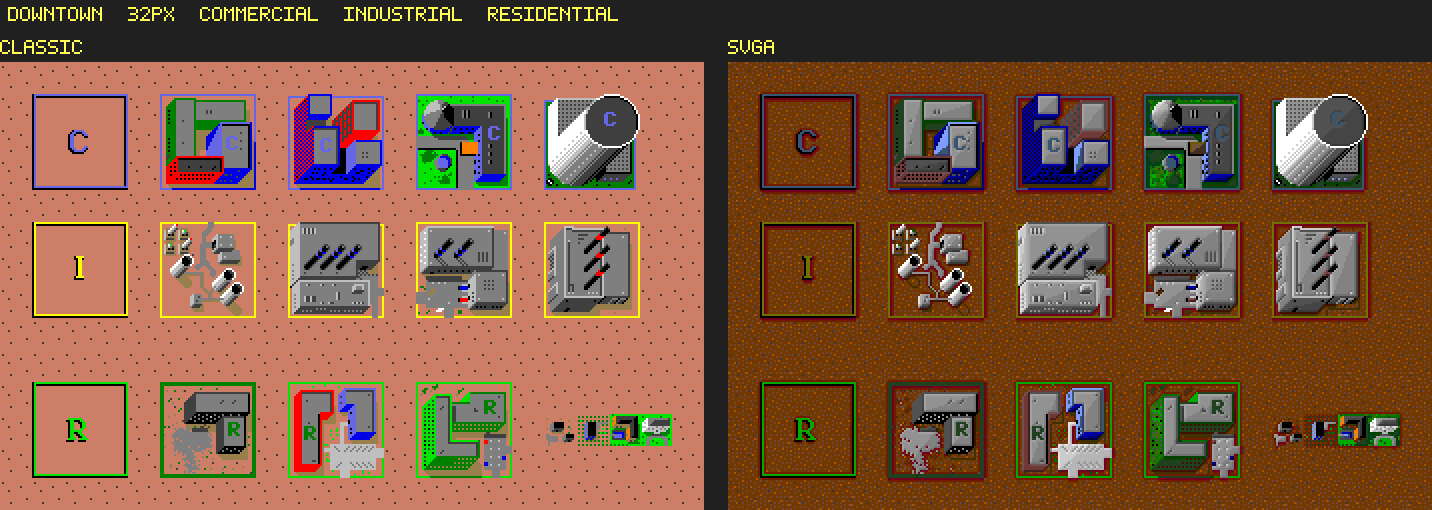
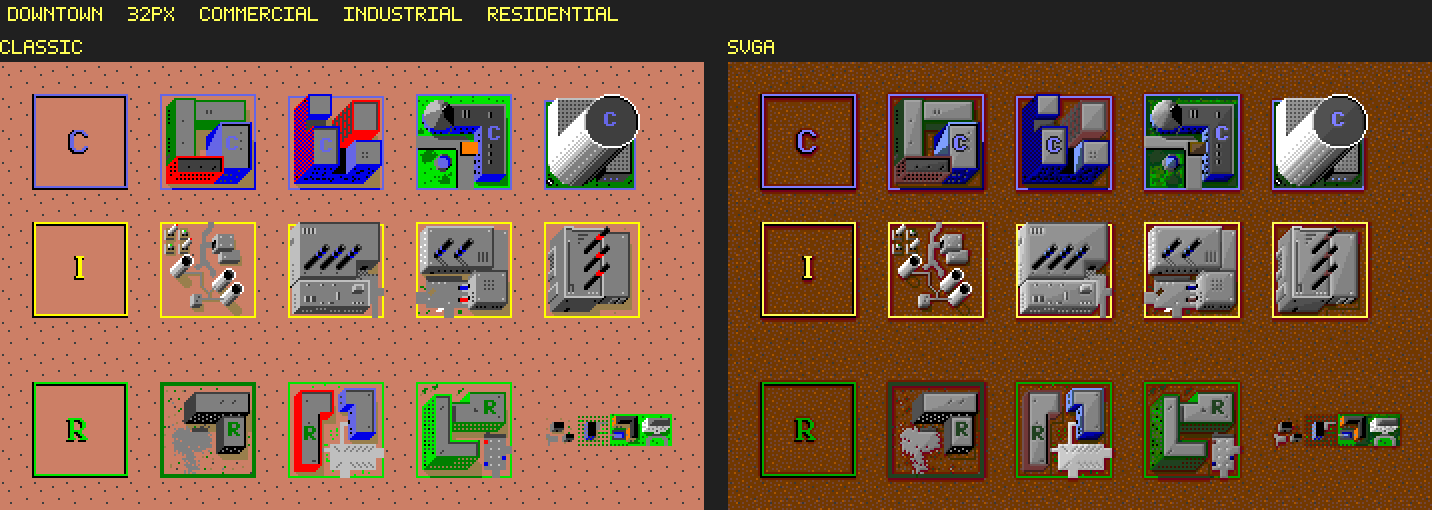
Brighten the commercial and industrial zone letters and lot borders.
The C is light blue (125, 125, 255) and the I is yellow (255, 255, 85), with matching solid frames. Letters on light roofs get a one-pixel dark edge. Residential tiles stay as approved.

diff --git a/art/svga/make_atlas.py b/art/svga/make_atlas.py
@@ -183,10 +183,17 @@ AMBER_RAMP = (
 )
 GRASS_LINE = (0, 170, 0)
 HEDGE_LINE = (32, 65, 32)
-# Commercial lots are light blue, industrial lots are yellow. One solid step
-# of each, not a dither.
-COM_LINE = (56, 85, 113)
-IND_LINE = (113, 113, 0)
+# Zone letters and lot borders have to read at a glance. The C keeps the
+# classic light-blue hue (equal red and green, high blue) at the lighter
+# standard step, (125, 125, 255). (85, 85, 255) is the same hue but darker,
+# and it sinks into a slate roof. The I is bright yellow one notch off neon
+# (255, 255, 0): (255, 255, 85). A letter on a light roof gets a 1px dark edge.
+COM_LINE = (125, 125, 255)
+IND_LINE = (255, 255, 85)
+LETTER_SHADE = (32, 32, 32)
+# Previous pass, kept so the letter sample can show the darker marks.
+_COM_LINE_BEFORE = (56, 85, 113)
+_IND_LINE_BEFORE = (113, 113, 0)
 
 GRASS_RAMP = (
     (0, 170, 0),
@@ -265,6 +272,40 @@ _ORTHO = ((0, -1), (0, 1), (-1, 0), (1, 0))
 _NW = ((0, -1), (-1, 0))
 _SE = ((0, 1), (1, 0))
 _PAVEMENT = frozenset({SRC_GREY})
+# The building C, the empty-lot C, and the empty-lot I. Every batch-2 letter matches one of these.
+_C_MARK = frozenset(
+    (x, y)
+    for y, row in enumerate((".####.", "##..##", "##....", "##....", "##....", "##..##", ".####."))
+    for x, ch in enumerate(row)
+    if ch == "#"
+)
+_C_LOT = frozenset(
+    (x, y)
+    for y, row in enumerate(
+        (
+            "..#####..",
+            ".##...##.",
+            "##.....##",
+            "##.......",
+            "##.......",
+            "##.......",
+            "##.......",
+            "##.......",
+            "##.....##",
+            ".##...##.",
+            "..#####..",
+        )
+    )
+    for x, ch in enumerate(row)
+    if ch == "#"
+)
+_I_MARK = frozenset(
+    (x, y)
+    for y, row in enumerate(("####", ".##.", ".##.", ".##.", ".##.", ".##.", ".##.", ".##.", ".##.", ".##.", "####"))
+    for x, ch in enumerate(row)
+    if ch == "#"
+)
+_LIGHT_BEHIND = frozenset({SRC_GREY, SRC_LGREY, WHITE})
 RECEIVERS = frozenset({SRC_TAN, SRC_DTAN, SRC_GREEN, SRC_DGREEN})
 TREE_CAST = frozenset({SRC_GREEN, SRC_DGREEN})
 BUILD_CAST = frozenset({SRC_GREY, SRC_LGREY, SRC_LBLUE, SRC_BLUE, SRC_DGREY, SRC_DGREEN, SRC_YELLOW})
@@ -788,12 +829,78 @@ def _components(src, w: int, h: int, colour: tuple[int, int, int]) -> list[list[
     return found
 
 
-def _solid_marks(src, w: int, h: int, kinds: list[list[str]]) -> dict[tuple[int, int], tuple[int, int, int]]:
+def _rel_mask(cells: list[tuple[int, int]]) -> frozenset[tuple[int, int]]:
+    xs = [cell[0] for cell in cells]
+    ys = [cell[1] for cell in cells]
+    x0, y0 = min(xs), min(ys)
+    return frozenset((x - x0, y - y0) for x, y in cells)
+
+
+def _on_commerce(kinds: list[list[str]], cells: list[tuple[int, int]]) -> bool:
+    return all(kinds[y // TILE][x // TILE] == "commerce" for x, y in cells)
+
+
+def _zone_letters(src, w: int, h: int, kinds: list[list[str]], colour: tuple[int, int, int], masks: tuple) -> list[list[tuple[int, int]]]:
+    found = []
+    for cells in _components(src, w, h, colour):
+        if not _on_commerce(kinds, cells):
+            continue
+        if _rel_mask(cells) in masks:
+            found.append(cells)
+    return found
+
+
+def _zone_border(src, w: int, h: int, kinds: list[list[str]], colour: tuple[int, int, int]) -> list[tuple[int, int]]:
+    """The lot frame of each 3x3 commerce block, even when it touches the windows."""
+    span = TILE * 3
+    pixels: list[tuple[int, int]] = []
+    tiles_y, tiles_x = h // TILE, w // TILE
+    for by in range(tiles_y - 2):
+        for bx in range(tiles_x - 2):
+            if any(kinds[by + dy][bx + dx] != "commerce" for dy in range(3) for dx in range(3)):
+                continue
+            ox, oy = bx * TILE, by * TILE
+            for y in range(oy, oy + span):
+                for x in range(ox, ox + span):
+                    if src[x, y] != colour:
+                        continue
+                    lx, ly = x - ox, y - oy
+                    if 1 < lx < span - 2 and 1 < ly < span - 2:
+                        continue
+                    neighbours = 0
+                    for dx, dy in _ORTHO:
+                        nx, ny = x + dx, y + dy
+                        if _in(nx, ny, w, h) and src[nx, ny] == colour:
+                            neighbours += 1
+                    if neighbours <= 2:
+                        pixels.append((x, y))
+    return pixels
+
+
+def _letter_shade(src, w: int, h: int, cells: list[tuple[int, int]], taken: set[tuple[int, int]]) -> dict[tuple[int, int], tuple[int, int, int]]:
+    """A 1px dark edge where a letter sits on a light grey face."""
+    shade: dict[tuple[int, int], tuple[int, int, int]] = {}
+    group = set(cells)
+    for x, y in cells:
+        for dx, dy in _ORTHO:
+            nx, ny = x + dx, y + dy
+            if not _in(nx, ny, w, h) or (nx, ny) in group or (nx, ny) in taken:
+                continue
+            if src[nx, ny] not in _LIGHT_BEHIND:
+                continue
+            shade[(nx, ny)] = LETTER_SHADE
+    return shade
+
+
+def _solid_marks(
+    src, w: int, h: int, kinds: list[list[str]], bright_zones: bool = True
+) -> dict[tuple[int, int], tuple[int, int, int]]:
     """Lot borders and zone letters are one flat colour. Lawns stay dithered.
 
-    A border is a stroke: almost every pixel has at most two orthogonal
-    neighbours. A zone letter is a compact mark that sits on a building tile.
-    Tree canopies fail both tests.
+    A residential border is a stroke: almost every pixel has at most two
+    orthogonal neighbours. A zone letter is a compact mark on a building tile.
+    Tree canopies fail both tests. Commercial and industrial letters are the
+    C and I shapes, and their lot borders are the frame of each 3x3.
     """
     marks: dict[tuple[int, int], tuple[int, int, int]] = {}
     for colour, solid in ((SRC_GREEN, GRASS_LINE), (SRC_DGREEN, HEDGE_LINE)):
@@ -814,25 +921,32 @@ def _solid_marks(src, w: int, h: int, kinds: list[list[str]]) -> dict[tuple[int,
             if stroke or glyph:
                 for cell in cells:
                     marks[cell] = solid
-    # Commercial and industrial zone colours. Residential light-blue mullions
-    # are not commerce tiles, so this loop does not repaint them.
-    for colour, solid in ((SRC_LBLUE, COM_LINE), (SRC_YELLOW, IND_LINE)):
+    if bright_zones:
+        pairs = ((SRC_LBLUE, COM_LINE, (_C_MARK, _C_LOT)), (SRC_YELLOW, IND_LINE, (_I_MARK,)))
+    else:
+        pairs = ((SRC_LBLUE, _COM_LINE_BEFORE, ()), (SRC_YELLOW, _IND_LINE_BEFORE, ()))
+    for colour, solid, masks in pairs:
+        if masks:
+            letters = _zone_letters(src, w, h, kinds, colour, masks)
+            taken: set[tuple[int, int]] = {cell for group in letters for cell in group}
+            for cells in letters:
+                for cell in cells:
+                    marks[cell] = solid
+                for cell, shade in _letter_shade(src, w, h, cells, taken).items():
+                    marks[cell] = shade
+            for cell in _zone_border(src, w, h, kinds, colour):
+                if cell not in taken:
+                    marks[cell] = solid
+            continue
         for cells in _components(src, w, h, colour):
-            if len(cells) < 12:
-                continue
-            if not all(kinds[y // TILE][x // TILE] == "commerce" for x, y in cells):
+            if len(cells) < 12 or not _on_commerce(kinds, cells):
                 continue
             group = set(cells)
-            thin = 0
-            for x, y in cells:
-                neighbours = sum((x + dx, y + dy) in group for dx, dy in _ORTHO)
-                if neighbours <= 2:
-                    thin += 1
-            stroke = thin / len(cells) >= 0.9
+            thin = sum(sum((x + dx, y + dy) in group for dx, dy in _ORTHO) <= 2 for x, y in cells) / len(cells)
             xs = [cell[0] for cell in cells]
             ys = [cell[1] for cell in cells]
             glyph = len(cells) <= 80 and max(xs) - min(xs) <= 13 and max(ys) - min(ys) <= 13
-            if stroke or glyph:
+            if thin >= 0.9 or glyph:
                 for cell in cells:
                     marks[cell] = solid
     return marks
@@ -920,7 +1034,12 @@ def _dither_recolour(src, w: int, h: int) -> dict[tuple[int, int], tuple[int, in
     return out
 
 
-def paint(original: Image.Image, kinds: list[list[str]], scheme: DirtScheme = SCHEME_B) -> Image.Image:
+def paint(
+    original: Image.Image,
+    kinds: list[list[str]],
+    scheme: DirtScheme = SCHEME_B,
+    bright_zones: bool = True,
+) -> Image.Image:
     """Recolour `original`. `kinds` is one label per 16px cell, row-major."""
     w, h = original.size
     if w % TILE or h % TILE:
@@ -932,7 +1051,7 @@ def paint(original: Image.Image, kinds: list[list[str]], scheme: DirtScheme = SC
     boxes = _component_boxes(src, w, h, surface_colours)
     mask = _caster_mask(kinds, src, w, h)
     counts = _caster_counts(src, w, h, mask)
-    solid = _solid_marks(src, w, h, kinds)
+    solid = _solid_marks(src, w, h, kinds, bright_zones)
     dither = _dither_recolour(src, w, h)
     for y in range(h):
         kind_row = kinds[y // TILE]
@@ -1436,7 +1555,6 @@ def main() -> int:
 
     hot = {
         (255, 255, 0),
-        (255, 255, 85),
         (255, 255, 125),
         (255, 127, 0),
         (255, 125, 0),
@@ -1445,7 +1563,6 @@ def main() -> int:
         (255, 0, 0),
         (170, 0, 0),
         (0, 0, 255),
-        (125, 125, 255),
         (85, 85, 255),
         (85, 255, 85),
     }
@@ -1477,6 +1594,50 @@ def main() -> int:
 
     _border_solid(423, SRC_LBLUE, COM_LINE, painted_com)
     _border_solid(612, SRC_YELLOW, IND_LINE, painted_ind)
+
+    def _letter_pixels(base: int, colour: tuple[int, int, int], mask: frozenset[tuple[int, int]]) -> list[tuple[int, int]]:
+        nonlocal failed
+        classic = assemble(atlas, base, 3, 3)
+        src = classic.load()
+        found = [cells for cells in _components(src, 48, 48, colour) if _rel_mask(cells) == mask]
+        if len(found) != 1:
+            lines.append(f"FAIL block {base} has {len(found)} copies of the zone letter")
+            failed = True
+            return []
+        return found[0]
+
+    for base in com_bases:
+        mask = _C_LOT if base == 423 else _C_MARK
+        svga = next(image for origin, _classic, image in painted_com if origin == base)
+        pixels = _letter_pixels(base, SRC_LBLUE, mask)
+        spx = svga.load()
+        wrong = sum(spx[x, y] != COM_LINE for x, y in pixels)
+        if wrong:
+            lines.append(f"FAIL the C on {base} is not the light blue ({wrong})")
+            failed = True
+    i_pixels = _letter_pixels(612, SRC_YELLOW, _I_MARK)
+    i_px = next(image for origin, _classic, image in painted_ind if origin == 612).load()
+    i_wrong = sum(i_px[x, y] != IND_LINE for x, y in i_pixels)
+    if i_wrong:
+        lines.append(f"FAIL the I on 612 is not the bright yellow ({i_wrong})")
+        failed = True
+    for base in ind_bases:
+        if base == 612:
+            continue
+        classic = next(image for origin, image, _svga in painted_ind if origin == base)
+        src = classic.load()
+        extra = [cells for cells in _components(src, 48, 48, SRC_YELLOW) if _rel_mask(cells) == _I_MARK]
+        if extra:
+            lines.append(f"FAIL block {base} has an I the empty-lot check did not expect")
+            failed = True
+    roof = next(image for origin, _classic, image in painted_com if origin == 558)
+    slate = next(image for origin, _classic, image in painted_com if origin == 504)
+    if LETTER_SHADE not in set(_histogram(roof)):
+        lines.append("FAIL the C on light roof 558 has no dark edge")
+        failed = True
+    if LETTER_SHADE in set(_histogram(slate)):
+        lines.append("FAIL the C on dark roof 504 grew a shadow it does not need")
+        failed = True
 
     open_water = paint(crop_tile(atlas, 2), [["water"]])
     shore = paint(crop_tile(atlas, 13), [["water"]])
@@ -1732,6 +1893,36 @@ def main() -> int:
         grid = _grid(cells, 4)
         return _vstack([_banner(title, grid.width), grid], 14)
 
+    def _captioned(image: Image.Image, caption: str, scale: int) -> Image.Image:
+        scaled = _scaled(image, scale)
+        label = _text(caption, 2)
+        width = max(scaled.width, label.width)
+        cell = _blank(width, label.height + 4 + scaled.height)
+        cell.paste(label, ((width - label.width) // 2, 0))
+        cell.paste(scaled, ((width - scaled.width) // 2, label.height + 4))
+        return cell
+
+    letter_rows = []
+    for base in (423, 612, 504, 603, 621):
+        classic = assemble(atlas, base, 3, 3)
+        kinds = [["commerce"] * 3 for _ in range(3)]
+        before = paint(classic, kinds, bright_zones=False)
+        after = paint(classic, kinds, bright_zones=True)
+        letter_rows.append(
+            _hstack(
+                [
+                    _captioned(classic, f"{base} CLASSIC", 3),
+                    _captioned(before, "BEFORE", 3),
+                    _captioned(after, "AFTER", 3),
+                ],
+                18,
+            )
+        )
+    letters = _vstack(
+        [_banner("ZONE LETTERS  CLASSIC  BEFORE  AFTER", letter_rows[0].width), *letter_rows],
+        12,
+    )
+
     commercial = _zone_sheet(painted_com, "COMMERCIAL  3X  CLASSIC LEFT  SVGA RIGHT")
     smoke_cells = [_pair(classic, svga, str(index), 3) for index, classic, svga in painted_smoke]
     smoke_grid = _grid(smoke_cells, 8)
@@ -1767,6 +1958,7 @@ def main() -> int:
     _save(commercial, PREVIEW_DIR / "commercial-3x.png")
     _save(industrial, PREVIEW_DIR / "industrial-3x.png")
     _save(downtown_sheet, PREVIEW_DIR / "downtown-32.png")
+    _save(letters, PREVIEW_DIR / "letters-sample.png")
 
     lines.append("")
     lines.append(
@@ -1788,6 +1980,7 @@ def main() -> int:
         "commercial-3x.png",
         "industrial-3x.png",
         "downtown-32.png",
+        "letters-sample.png",
     ):
         lines.append(f"  previews/{name}")
     result = "PASS" if not failed else "FAIL"
